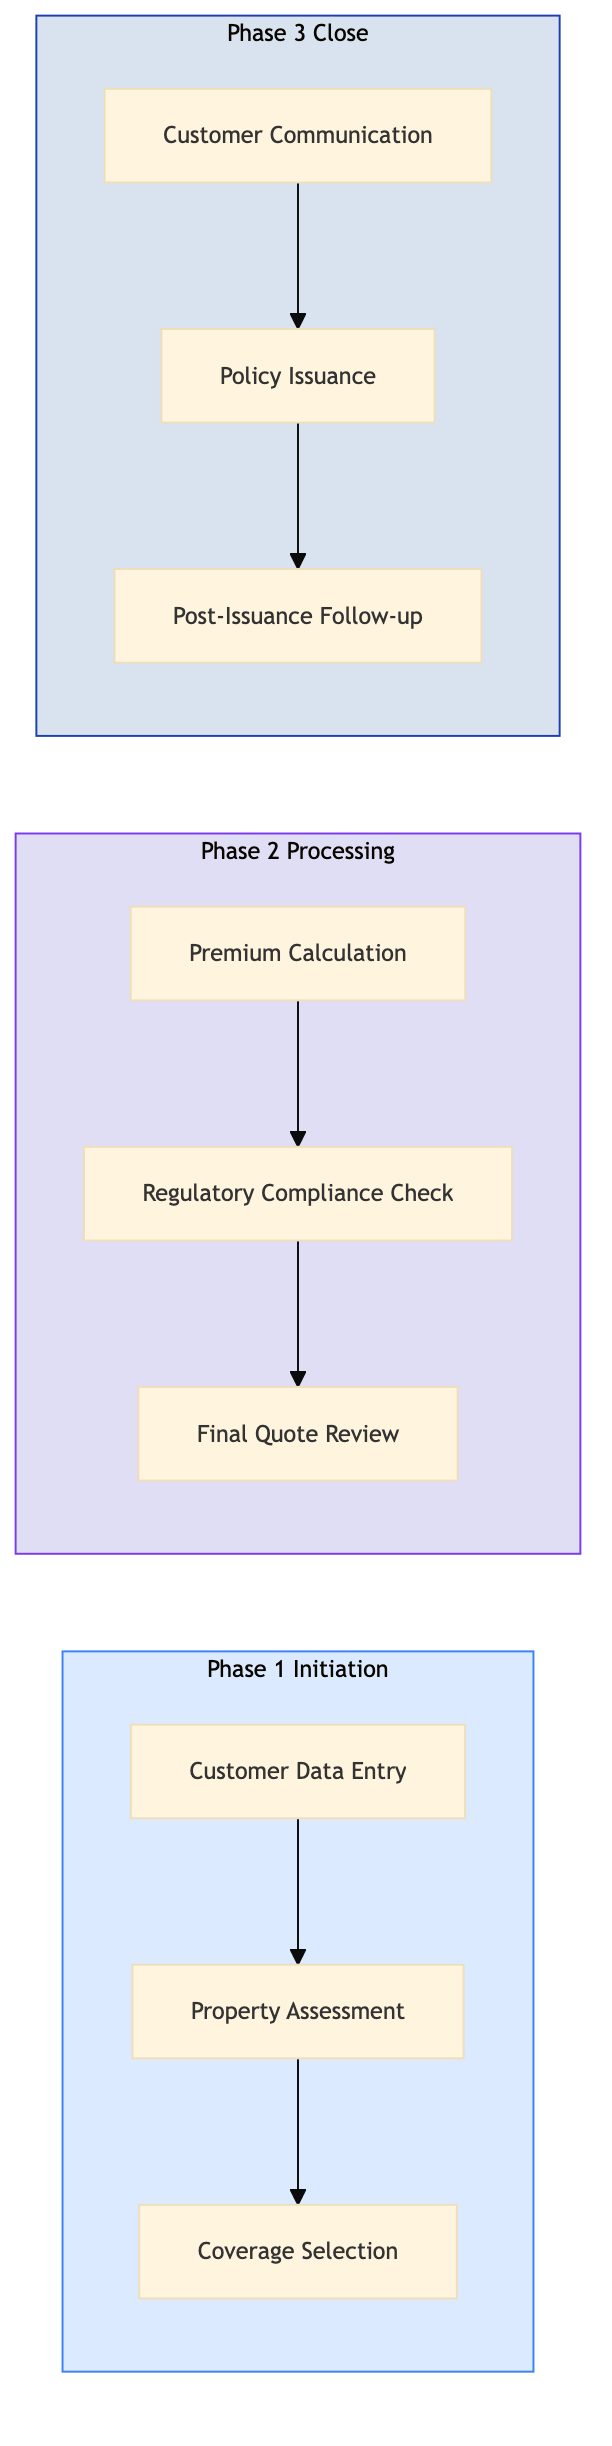
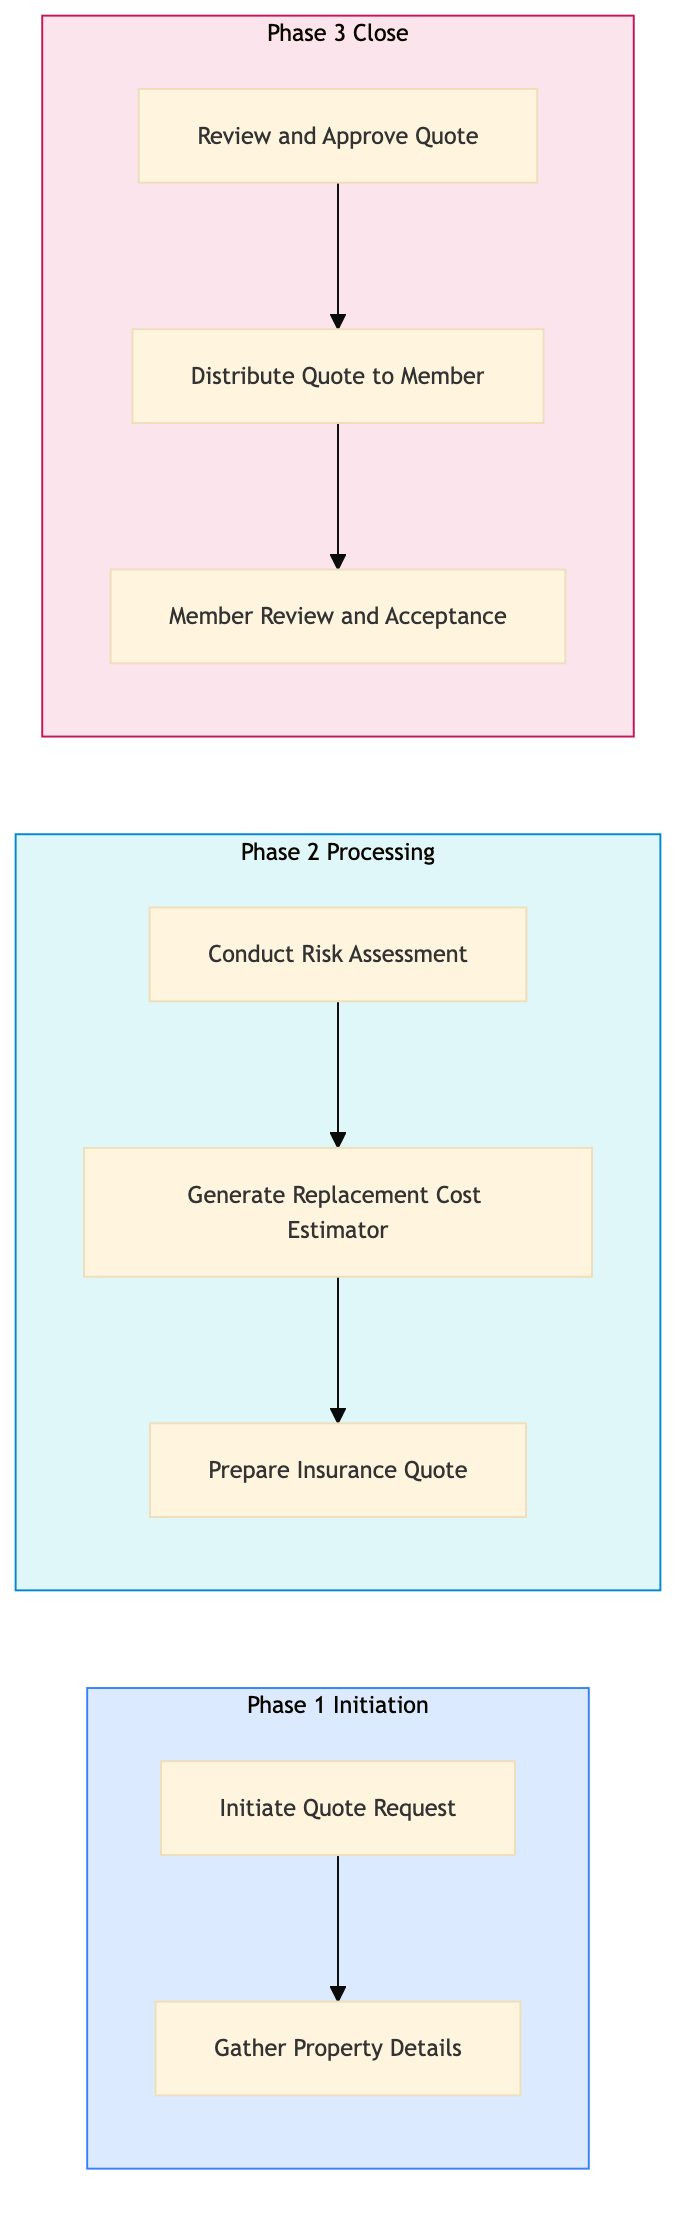
feat: add CAA-CI-QU-09 — Home and Property Insurance Quote (Replacement Cost Estimato

diff --git a/caa-insurance/caa-insurance-quoting/caa-ci-qu-09.html b/caa-insurance/caa-insurance-quoting/caa-ci-qu-09.html
@@ -23,40 +23,16 @@
     <div class="nav-l2-group">
       <a class="nav-l2-title" href="../../shared-membership/membership-enrolment/index.html">Membership Enrolment & Sales</a>
       <div class="nav-l3-list">
-        <a class="nav-l3" href="../../shared-membership/membership-enrolment/shared-mb-en-01.html">SHARED-MB-EN-01 &mdash; New Member Walk-In Enrolment (Branch)</a>
-        <a class="nav-l3" href="../../shared-membership/membership-enrolment/shared-mb-en-02.html">SHARED-MB-EN-02 &mdash; Online Membership Self-Enrolment (Web/Ap</a>
-        <a class="nav-l3" href="../../shared-membership/membership-enrolment/shared-mb-en-03.html">SHARED-MB-EN-03 &mdash; Phone Enrolment via Contact Centre</a>
-        <a class="nav-l3" href="../../shared-membership/membership-enrolment/shared-mb-en-04.html">SHARED-MB-EN-04 &mdash; Affiliate and Employer Group Enrolment</a>
-        <a class="nav-l3" href="../../shared-membership/membership-enrolment/shared-mb-en-05.html">SHARED-MB-EN-05 &mdash; Membership Tier Selection and Upsell</a>
-        <a class="nav-l3" href="../../shared-membership/membership-enrolment/shared-mb-en-06.html">SHARED-MB-EN-06 &mdash; Payment Processing and First-Year Billin</a>
-        <a class="nav-l3" href="../../shared-membership/membership-enrolment/shared-mb-en-07.html">SHARED-MB-EN-07 &mdash; Welcome Kit and Digital Card Issuance</a>
-        <a class="nav-l3" href="../../shared-membership/membership-enrolment/shared-mb-en-08.html">SHARED-MB-EN-08 &mdash; Duplicate Member Detection and Merge</a>
       </div>
     </div>
     <div class="nav-l2-group">
       <a class="nav-l2-title" href="../../shared-membership/membership-renewal/index.html">Membership Renewal & Retention</a>
       <div class="nav-l3-list">
-        <a class="nav-l3" href="../../shared-membership/membership-renewal/shared-mb-rn-01.html">SHARED-MB-RN-01 &mdash; Annual Renewal Notice Generation and Dis</a>
-        <a class="nav-l3" href="../../shared-membership/membership-renewal/shared-mb-rn-02.html">SHARED-MB-RN-02 &mdash; Auto-Renewal Processing (Credit Card on </a>
-        <a class="nav-l3" href="../../shared-membership/membership-renewal/shared-mb-rn-03.html">SHARED-MB-RN-03 &mdash; Lapsed Member Reinstatement Campaign</a>
-        <a class="nav-l3" href="../../shared-membership/membership-renewal/shared-mb-rn-04.html">SHARED-MB-RN-04 &mdash; Membership Upgrade and Tier Change Proce</a>
-        <a class="nav-l3" href="../../shared-membership/membership-renewal/shared-mb-rn-05.html">SHARED-MB-RN-05 &mdash; Associate and Household Member Add-On Pr</a>
-        <a class="nav-l3" href="../../shared-membership/membership-renewal/shared-mb-rn-06.html">SHARED-MB-RN-06 &mdash; Cancellation Request Handling and Save O</a>
-        <a class="nav-l3" href="../../shared-membership/membership-renewal/shared-mb-rn-07.html">SHARED-MB-RN-07 &mdash; Renewal Rate Review and Pricing Update</a>
-        <a class="nav-l3" href="../../shared-membership/membership-renewal/shared-mb-rn-08.html">SHARED-MB-RN-08 &mdash; Membership Winback Campaign (12-36 Month</a>
       </div>
     </div>
     <div class="nav-l2-group">
       <a class="nav-l2-title" href="../../shared-membership/member-services/index.html">Member Services & Benefits</a>
       <div class="nav-l3-list">
-        <a class="nav-l3" href="../../shared-membership/member-services/shared-mb-sv-01.html">SHARED-MB-SV-01 &mdash; Member Discount Partner Redemption</a>
-        <a class="nav-l3" href="../../shared-membership/member-services/shared-mb-sv-02.html">SHARED-MB-SV-02 &mdash; Passport Photo Service Delivery (Branch)</a>
-        <a class="nav-l3" href="../../shared-membership/member-services/shared-mb-sv-03.html">SHARED-MB-SV-03 &mdash; International Driving Permit (IDP) Proce</a>
-        <a class="nav-l3" href="../../shared-membership/member-services/shared-mb-sv-04.html">SHARED-MB-SV-04 &mdash; Notary and Document Authentication Servi</a>
-        <a class="nav-l3" href="../../shared-membership/member-services/shared-mb-sv-05.html">SHARED-MB-SV-05 &mdash; Member Portal Profile and Preferences Ma</a>
-        <a class="nav-l3" href="../../shared-membership/member-services/shared-mb-sv-06.html">SHARED-MB-SV-06 &mdash; Lost and Stolen Membership Card Replacem</a>
-        <a class="nav-l3" href="../../shared-membership/member-services/shared-mb-sv-07.html">SHARED-MB-SV-07 &mdash; Member Data Privacy Request (CCPA and PI</a>
-        <a class="nav-l3" href="../../shared-membership/member-services/shared-mb-sv-08.html">SHARED-MB-SV-08 &mdash; Member Satisfaction Survey and NPS Track</a>
       </div>
     </div>
   </div>
@@ -320,7 +296,7 @@
           <span class="pid-badge org-badge-caa">CAA</span>
           CAA-CI-QU-09 &mdash; Home and Property Insurance Quote (Replacement Cost Estimator)
         </h1>
-        <p>The Home and Property Insurance Quote process generates a detailed quote for replacement cost estimator based on customer input and regulatory requirements.</p>
+        <p>The Home and Property Insurance Quote process generates a replacement cost estimator for CAA South Central Ontario members using Guidewire InsuranceSuite, adhering to FSRA regulations.</p>
       </div>
 
       <!-- BPMN Diagram -->
@@ -346,10 +322,10 @@
             <tr><th>L1 Domain</th><td>CAA Insurance (Ontario)</td></tr>
             <tr><th>L2 Process</th><td>Quoting & Underwriting (CAA)</td></tr>
             <tr><th>L3 Name</th><td>Home and Property Insurance Quote (Replacement Cost Estimator)</td></tr>
-            <tr><th>Trigger</th><td>A customer initiates the quoting process through the CAA MyCAA App or by contacting a Licensed Insurance Agent.</td></tr>
-            <tr><th>Outcome</th><td>Successful completion produces a comprehensive home and property insurance quote, including coverage details, premium costs, and policy terms.</td></tr>
-            <tr><th>Org Notes</th><td>CAA South Central Ontario adheres strictly to FSRA regulations and uses Guidewire InsuranceSuite for quoting and underwriting processes. The process involves more detailed telematics data integration compared to AAA.</td></tr>
-            <tr><th>Systems</th><td><span class="sys-tag guidewire">Guidewire InsuranceSuite</span> <span class="sys-tag caa-app">CAA MyCAA App</span> <span class="sys-tag salesforce">Salesforce</span> <span class="sys-tag sap">SAP S/4HANA</span></td></tr>
+            <tr><th>Trigger</th><td>A member initiates the quote request through the CAA MyCAA App or directly contacts a Licensed Insurance Agent.</td></tr>
+            <tr><th>Outcome</th><td>Successful completion produces a detailed home and property insurance quote including replacement cost estimator, which is presented to the member for review and underwriting.</td></tr>
+            <tr><th>Org Notes</th><td>CAA South Central Ontario uses Guidewire InsuranceSuite for quoting, whereas AAA typically uses Salesforce and other systems. CAA also adheres to FSRA regulations specific to Ontario.</td></tr>
+            <tr><th>Systems</th><td><span class="sys-tag guidewire">Guidewire InsuranceSuite</span> <span class="sys-tag caa-app">CAA MyCAA App</span> <span class="sys-tag galileo">Galileo GDS</span></td></tr>
           </table>
         </div>
       </div>
@@ -370,111 +346,99 @@
               <tbody>
         <tr>
           <td class="step-num">1.1</td>
-          <td>Customer Data Entry</td>
+          <td>Initiate Quote Request</td>
           <td>Licensed Insurance Agent</td>
           <td><span class="sys-tag caa-app">CAA MyCAA App</span></td>
-          <td>Customer profile and property details</td>
-          <td>Property assessment form</td>
-          <td>Data entry accuracy rate > 95%</td>
-          <td>Inconsistent data input from customers</td>
+          <td>Member's contact information and property details</td>
+          <td>Quote request logged in Guidewire InsuranceSuite</td>
+          <td>Time to log quote request < 5 minutes</td>
+          <td>Handling incorrect or incomplete member data</td>
           <td>N</td>
           <td><span class="exception-y">Y</span></td>
         </tr>
         <tr>
           <td class="step-num">1.2</td>
-          <td>Property Assessment</td>
-          <td>Claims Adjuster</td>
+          <td>Gather Property Details</td>
+          <td>Licensed Insurance Agent</td>
           <td><span class="sys-tag guidewire">Guidewire InsuranceSuite</span></td>
-          <td>Property assessment form</td>
-          <td>Assessment report with value estimates</td>
-          <td>Assessment completion time < 48 hours</td>
-          <td>Delays in property inspection</td>
+          <td>Property details from the member</td>
+          <td>Property information entered in Guidewire InsuranceSuite</td>
+          <td>Accuracy of property data > 95%</td>
+          <td>Ensuring comprehensive property assessment</td>
           <td>N</td>
           <td><span class="exception-y">Y</span></td>
-        </tr>
-        <tr>
-          <td class="step-num">1.3</td>
-          <td>Coverage Selection</td>
-          <td>Licensed Insurance Agent</td>
-          <td><span class="sys-tag guidewire">Guidewire Quote & Buy Portal</span></td>
-          <td>Assessment report</td>
-          <td>Selected coverage options</td>
-          <td>Customer satisfaction with coverage selection > 80%</td>
-          <td>Complexity in selecting appropriate coverage</td>
-          <td><span class="decision-y">Y</span></td>
-          <td>N</td>
         </tr>
         <tr>
           <td class="step-num">2.1</td>
-          <td>Premium Calculation</td>
+          <td>Conduct Risk Assessment</td>
           <td>Underwriter</td>
           <td><span class="sys-tag guidewire">Guidewire InsuranceSuite</span></td>
-          <td>Selected coverage options</td>
-          <td>Premium quote</td>
-          <td>Quote accuracy rate > 98%</td>
-          <td>Errors in premium calculation</td>
-          <td>N</td>
-          <td><span class="exception-y">Y</span></td>
-        </tr>
-        <tr>
-          <td class="step-num">2.2</td>
-          <td>Regulatory Compliance Check</td>
-          <td>Compliance Officer</td>
-          <td><span class="sys-tag guidewire">Guidewire InsuranceSuite</span></td>
-          <td>Premium quote</td>
-          <td>Compliance report</td>
-          <td>Compliance check time < 24 hours</td>
-          <td>Regulatory changes affecting compliance</td>
+          <td>Property details and risk factors</td>
+          <td>Risk assessment report</td>
+          <td>Risk assessment completion time < 30 minutes</td>
+          <td>Balancing thoroughness with efficiency in risk assessment</td>
           <td><span class="decision-y">Y</span></td>
           <td>N</td>
         </tr>
         <tr>
-          <td class="step-num">2.3</td>
-          <td>Final Quote Review</td>
-          <td>Licensed Insurance Agent</td>
+          <td class="step-num">2.2</td>
+          <td>Generate Replacement Cost Estimator</td>
+          <td>Underwriter</td>
           <td><span class="sys-tag guidewire">Guidewire InsuranceSuite</span></td>
-          <td>Compliance report</td>
-          <td>Finalized quote document</td>
-          <td>Quote review time < 1 hour</td>
-          <td>Time-consuming manual reviews</td>
+          <td>Risk assessment report</td>
+          <td>Replacement cost estimator document</td>
+          <td>Estimator accuracy > 90%</td>
+          <td>Ensuring accurate valuation of property contents</td>
+          <td>N</td>
+          <td><span class="exception-y">Y</span></td>
+        </tr>
+        <tr>
+          <td class="step-num">2.3</td>
+          <td>Prepare Insurance Quote</td>
+          <td>Underwriter</td>
+          <td><span class="sys-tag guidewire">Guidewire InsuranceSuite</span></td>
+          <td>Replacement cost estimator and risk assessment</td>
+          <td>Final insurance quote document</td>
+          <td>Quote preparation time < 1 hour</td>
+          <td>Incorporating all relevant coverage options</td>
           <td>N</td>
           <td><span class="exception-y">Y</span></td>
         </tr>
         <tr>
           <td class="step-num">3.1</td>
-          <td>Customer Communication</td>
-          <td>Licensed Insurance Agent</td>
-          <td><span class="sys-tag salesforce">CAA MyCAA App, Salesforce</span></td>
-          <td>Finalized quote document</td>
-          <td>Quote confirmation email/communication</td>
-          <td>Customer communication response rate > 90%</td>
-          <td>Poor customer engagement</td>
+          <td>Review and Approve Quote</td>
+          <td>Branch Manager</td>
+          <td><span class="sys-tag guidewire">Guidewire InsuranceSuite</span></td>
+          <td>Final insurance quote document</td>
+          <td>Approved quote for distribution</td>
+          <td>Quote approval time < 2 hours</td>
+          <td>Ensuring compliance with FSRA regulations</td>
+          <td><span class="decision-y">Y</span></td>
           <td>N</td>
-          <td><span class="exception-y">Y</span></td>
         </tr>
         <tr>
           <td class="step-num">3.2</td>
-          <td>Policy Issuance</td>
-          <td>Underwriter</td>
-          <td><span class="sys-tag guidewire">Guidewire InsuranceSuite, SAP S/4HANA</span></td>
-          <td>Customer confirmation</td>
-          <td>Issued policy document</td>
-          <td>Policy issuance time < 2 business days</td>
-          <td>Delays in policy processing</td>
+          <td>Distribute Quote to Member</td>
+          <td>Licensed Insurance Agent</td>
+          <td><span class="sys-tag caa-app">CAA MyCAA App</span></td>
+          <td>Approved quote document</td>
+          <td>Quote distributed via CAA MyCAA App or email</td>
+          <td>Quote distribution time < 10 minutes</td>
+          <td>Ensuring secure and timely communication</td>
           <td>N</td>
           <td><span class="exception-y">Y</span></td>
         </tr>
         <tr>
           <td class="step-num">3.3</td>
-          <td>Post-Issuance Follow-up</td>
-          <td>Claims Adjuster</td>
-          <td><span class="sys-tag salesforce">CAA MyCAA App, Salesforce</span></td>
-          <td>Issued policy document</td>
-          <td>Customer follow-up record</td>
-          <td>Follow-up completion rate > 85%</td>
-          <td>Low customer engagement after issuance</td>
+          <td>Member Review and Acceptance</td>
+          <td>Member</td>
+          <td><span class="sys-tag caa-app">CAA MyCAA App</span></td>
+          <td>Received quote document</td>
+          <td>Accepted or declined quote</td>
+          <td>Quote acceptance rate > 80%</td>
+          <td>Handling member inquiries and concerns</td>
+          <td><span class="decision-y">Y</span></td>
           <td>N</td>
-          <td><span class="exception-y">Y</span></td>
         </tr>
               </tbody>
             </table>
@@ -487,9 +451,9 @@
         <div class="card-header">&#x1F4CA; KPIs &amp; Risk Register</div>
         <div class="card-body">
           <p class="mb-8"><strong>KPIs</strong></p>
-          <div class="kpi-list mb-8"><span class="kpi-pill">Data entry accuracy rate > 95%</span> <span class="kpi-pill">Assessment completion time < 48 hours</span> <span class="kpi-pill">Customer satisfaction with coverage selection > 80%</span> <span class="kpi-pill">Quote accuracy rate > 98%</span> <span class="kpi-pill">Compliance check time < 24 hours</span> <span class="kpi-pill">Quote review time < 1 hour</span> <span class="kpi-pill">Customer communication response rate > 90%</span> <span class="kpi-pill">Policy issuance time < 2 business days</span> <span class="kpi-pill">Follow-up completion rate > 85%</span></div>
+          <div class="kpi-list mb-8"><span class="kpi-pill">Time to log quote request < 5 minutes</span> <span class="kpi-pill">Accuracy of property data > 95%</span> <span class="kpi-pill">Risk assessment completion time < 30 minutes</span> <span class="kpi-pill">Estimator accuracy > 90%</span> <span class="kpi-pill">Quote preparation time < 1 hour</span> <span class="kpi-pill">Quote approval time < 2 hours</span> <span class="kpi-pill">Quote distribution time < 10 minutes</span> <span class="kpi-pill">Quote acceptance rate > 80%</span></div>
           <p class="mb-8" style="margin-top:16px"><strong>Key Risks</strong></p>
-          <div class="kpi-list"><span class="risk-pill">Inconsistent data input from customers</span> <span class="risk-pill">Delays in property inspection</span> <span class="risk-pill">Errors in premium calculation</span> <span class="risk-pill">Regulatory changes affecting compliance</span> <span class="risk-pill">Time-consuming manual reviews</span> <span class="risk-pill">Poor customer engagement</span> <span class="risk-pill">Delays in policy processing</span> <span class="risk-pill">Low customer engagement after issuance</span></div>
+          <div class="kpi-list"><span class="risk-pill">Inaccurate property assessment leading to misquoted premiums</span> <span class="risk-pill">Non-compliance with FSRA regulations resulting in legal issues</span> <span class="risk-pill">Security vulnerabilities in CAA MyCAA App causing data breaches</span> <span class="risk-pill">Delays in quote distribution affecting customer satisfaction</span> <span class="risk-pill">High rejection rates due to unrealistic premium estimates</span></div>
         </div>
       </div>
 

diff --git a/caa-insurance/caa-insurance-quoting/index.html b/caa-insurance/caa-insurance-quoting/index.html
@@ -107,6 +107,7 @@
         <a class="nav-l3" href="../../caa-insurance/caa-insurance-quoting/caa-ci-qu-05.html">CAA-CI-QU-05 &mdash; Guidewire Rating Engine Calculation</a>
         <a class="nav-l3" href="../../caa-insurance/caa-insurance-quoting/caa-ci-qu-06.html">CAA-CI-QU-06 &mdash; Coverage Selection Presentation (Mandato</a>
         <a class="nav-l3" href="../../caa-insurance/caa-insurance-quoting/caa-ci-qu-07.html">CAA-CI-QU-07 &mdash; Underwriting Rule Application and Anti-S</a>
+        <a class="nav-l3" href="../../caa-insurance/caa-insurance-quoting/caa-ci-qu-08.html">CAA-CI-QU-08 &mdash; Online Bind and Policy Issue (Guidewire </a>
       </div>
     </div>
     <div class="nav-l2-group">
@@ -288,7 +289,7 @@
           <a href="../index.html">CAA Insurance (Ontario)</a>
         </div>
         <h1>🍁 Quoting & Underwriting (CAA)</h1>
-        <p>7 of 10 processes complete</p>
+        <p>8 of 10 processes complete</p>
       </div>
       <div class="card">
         <div class="card-header">Process List</div>
@@ -302,7 +303,7 @@
 <tr><td><a href="caa-ci-qu-05.html">CAA-CI-QU-05</a></td><td>Guidewire Rating Engine Calculation</td><td><span style="color:#16a34a;font-weight:700">&#x2705; Complete</span></td></tr>
 <tr><td><a href="caa-ci-qu-06.html">CAA-CI-QU-06</a></td><td>Coverage Selection Presentation (Mandatory and Optional OAP1)</td><td><span style="color:#16a34a;font-weight:700">&#x2705; Complete</span></td></tr>
 <tr><td><a href="caa-ci-qu-07.html">CAA-CI-QU-07</a></td><td>Underwriting Rule Application and Anti-Selection Check</td><td><span style="color:#16a34a;font-weight:700">&#x2705; Complete</span></td></tr>
-<tr><td>CAA-CI-QU-08</td><td>Online Bind and Policy Issue (Guidewire PolicyCenter)</td><td><span style="color:#94a3b8">&#x23F3; Queued</span></td></tr>
+<tr><td><a href="caa-ci-qu-08.html">CAA-CI-QU-08</a></td><td>Online Bind and Policy Issue (Guidewire PolicyCenter)</td><td><span style="color:#16a34a;font-weight:700">&#x2705; Complete</span></td></tr>
 <tr><td>CAA-CI-QU-09</td><td>Home and Property Insurance Quote (Replacement Cost Estimator)</td><td><span style="color:#94a3b8">&#x23F3; Queued</span></td></tr>
 <tr><td>CAA-CI-QU-10</td><td>CAA Member Discount Application and Multi-Policy Bundle</td><td><span style="color:#94a3b8">&#x23F3; Queued</span></td></tr>
 </tbody>

diff --git a/index.html b/index.html
@@ -107,6 +107,7 @@
         <a class="nav-l3" href="caa-insurance/caa-insurance-quoting/caa-ci-qu-05.html">CAA-CI-QU-05 &mdash; Guidewire Rating Engine Calculation</a>
         <a class="nav-l3" href="caa-insurance/caa-insurance-quoting/caa-ci-qu-06.html">CAA-CI-QU-06 &mdash; Coverage Selection Presentation (Mandato</a>
         <a class="nav-l3" href="caa-insurance/caa-insurance-quoting/caa-ci-qu-07.html">CAA-CI-QU-07 &mdash; Underwriting Rule Application and Anti-S</a>
+        <a class="nav-l3" href="caa-insurance/caa-insurance-quoting/caa-ci-qu-08.html">CAA-CI-QU-08 &mdash; Online Bind and Policy Issue (Guidewire </a>
       </div>
     </div>
     <div class="nav-l2-group">
@@ -288,10 +289,10 @@
       </div>
 
       <div class="stats-bar">
-        <div class="stat-card"><div class="stat-num">41</div><div class="stat-label">Processes Complete</div></div>
+        <div class="stat-card"><div class="stat-num">42</div><div class="stat-label">Processes Complete</div></div>
         <div class="stat-card"><div class="stat-num">268</div><div class="stat-label">Total Processes</div></div>
         <div class="stat-card"><div class="stat-num">34</div><div class="stat-label">AAA Complete</div></div>
-        <div class="stat-card"><div class="stat-num caa-red">7</div><div class="stat-label">CAA Complete</div></div>
+        <div class="stat-card"><div class="stat-num caa-red">8</div><div class="stat-label">CAA Complete</div></div>
         <div class="stat-card"><div class="stat-num">0</div><div class="stat-label">Shared Complete</div></div>
       </div>
 
@@ -318,7 +319,7 @@
         <span class="nav-org-dot caa" style="display:inline-block;margin-right:4px"></span>
         CAA
       </p>
-      <p class="card-count">7 / 34 processes complete</p>
+      <p class="card-count">8 / 34 processes complete</p>
     </div>
     <div class="domain-card org-shared">
       <h3><a href="shared-roadside/index.html">🚨 Roadside Assistance</a></h3>

diff --git a/caa-insurance/index.html b/caa-insurance/index.html
@@ -107,6 +107,7 @@
         <a class="nav-l3" href="../caa-insurance/caa-insurance-quoting/caa-ci-qu-05.html">CAA-CI-QU-05 &mdash; Guidewire Rating Engine Calculation</a>
         <a class="nav-l3" href="../caa-insurance/caa-insurance-quoting/caa-ci-qu-06.html">CAA-CI-QU-06 &mdash; Coverage Selection Presentation (Mandato</a>
         <a class="nav-l3" href="../caa-insurance/caa-insurance-quoting/caa-ci-qu-07.html">CAA-CI-QU-07 &mdash; Underwriting Rule Application and Anti-S</a>
+        <a class="nav-l3" href="../caa-insurance/caa-insurance-quoting/caa-ci-qu-08.html">CAA-CI-QU-08 &mdash; Online Bind and Policy Issue (Guidewire </a>
       </div>
     </div>
     <div class="nav-l2-group">
@@ -285,11 +286,11 @@
       <div class="page-header">
         <div class="breadcrumb"><a href="../index.html">Home</a></div>
         <h1>🍁 CAA Insurance (Ontario)</h1>
-        <p>7 of 34 processes complete across 4 process groups</p>
+        <p>8 of 34 processes complete across 4 process groups</p>
       </div>
       <div class="domain-grid">    <div class="domain-card org-caa">
       <h3><a href="caa-insurance-quoting/index.html">Quoting & Underwriting (CAA)</a></h3>
-      <p class="card-meta">7/10 processes complete</p>
+      <p class="card-meta">8/10 processes complete</p>
     </div>
     <div class="domain-card org-caa">
       <h3><a href="caa-policy-administration/index.html">Policy Administration (CAA)</a></h3>
